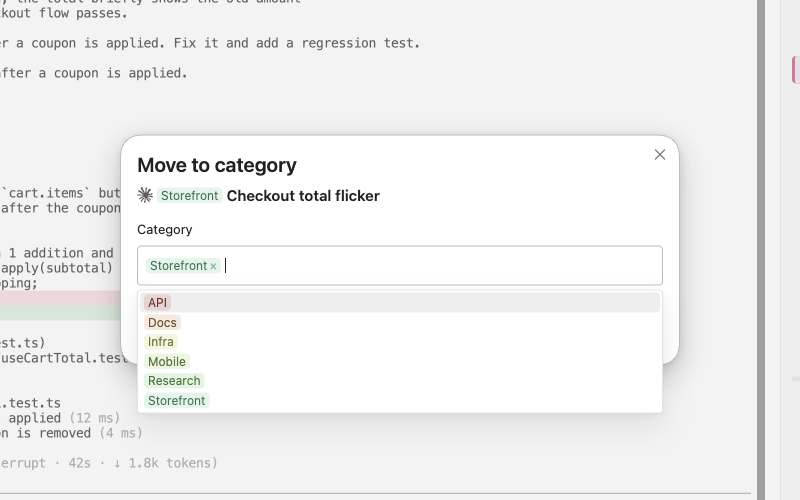
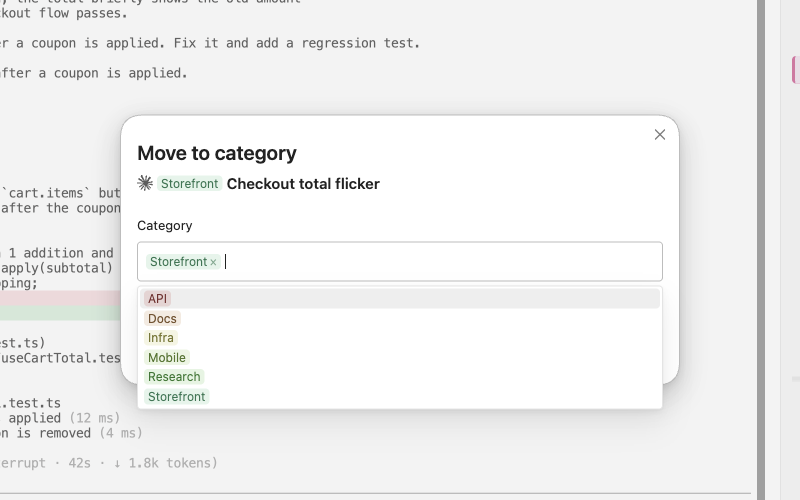
Give dialogs more vertical room
The dialog scale gains --size-4-6 (24 px): between the blocks of a
dialog, the title above the content, each side of the divider above the
button row, and the modal's padding above and below. Bordered and tinted
blocks (token efficiency rows, summary, disclosures, the opened issue,
Session analytics cards and charts, organize rows and progress) have a
16 px inset, a name and its description 4 px apart, a finding's lines
12 px apart, and the primary button and its estimate line more space.
Session analytics table rows are taller. R-S19 and design.md 16.2 list
the five steps; the README's token efficiency images and the welcome
guide's dialog scenes are shot again.

Claude-Session: https://claude.ai/code/session_01TTRFsyBXjNS4ZGqFbyUZrn

Changed region(s): [[0.125, 0.24, 0.8438, 0.84], [0.8125, 0.72, 0.875, 0.78]]

diff --git a/plugin/styles.css b/plugin/styles.css
@@ -2015,6 +2015,7 @@ input.agent-sessions-name-input-field[type="text"]:is(:hover, :active, :focus, :
 	width: 90vw;
 	max-width: 1100px;
 	height: 85vh;
+	padding-block: var(--size-4-6);
 }
 
 /* The title is drawn in the content's own header; Obsidian's empty one would add space above it. */
@@ -2037,7 +2038,7 @@ input.agent-sessions-name-input-field[type="text"]:is(:hover, :active, :focus, :
 	flex: none;
 	gap: var(--size-4-3);
 	/* The modal's own padding is the inset; the right side leaves room for its close button. */
-	padding: 0 var(--size-4-6) var(--size-4-4) 0;
+	padding: 0 var(--size-4-6) var(--size-4-6) 0;
 	border-bottom: 1px solid var(--background-modifier-border);
 }
 
@@ -2058,7 +2059,7 @@ input.agent-sessions-name-input-field[type="text"]:is(:hover, :active, :focus, :
 .agent-sessions-usage-body {
 	flex: 1 1 auto;
 	overflow-y: auto;
-	padding: var(--size-4-4) 0 0;
+	padding: var(--size-4-6) 0 0;
 }
 
 .agent-sessions-usage-loading,
@@ -2075,7 +2076,7 @@ input.agent-sessions-name-input-field[type="text"]:is(:hover, :active, :focus, :
 	display: flex;
 	align-items: center;
 	gap: var(--size-4-2);
-	margin-bottom: var(--size-4-3);
+	margin-bottom: var(--size-4-4);
 	color: var(--text-muted);
 	font-size: var(--font-ui-small);
 }
@@ -2093,11 +2094,11 @@ input.agent-sessions-name-input-field[type="text"]:is(:hover, :active, :focus, :
 	display: grid;
 	grid-template-columns: repeat(4, 1fr);
 	gap: var(--size-4-4);
-	margin-bottom: var(--size-4-4);
+	margin-bottom: var(--size-4-6);
 }
 
 .agent-sessions-usage-card {
-	padding: var(--size-4-3);
+	padding: var(--size-4-4);
 	border: 1px solid var(--background-modifier-border);
 	border-radius: var(--radius-m);
 	background: var(--background-secondary);
@@ -2110,7 +2111,7 @@ input.agent-sessions-name-input-field[type="text"]:is(:hover, :active, :focus, :
 }
 
 .agent-sessions-usage-card-label {
-	margin-top: var(--size-2-1);
+	margin-top: var(--size-4-1);
 	color: var(--text-muted);
 	font-size: var(--font-ui-smaller);
 	text-transform: uppercase;
@@ -2118,7 +2119,7 @@ input.agent-sessions-name-input-field[type="text"]:is(:hover, :active, :focus, :
 }
 
 .agent-sessions-usage-card-sub {
-	margin-top: var(--size-2-1);
+	margin-top: var(--size-4-1);
 	color: var(--text-faint);
 	font-size: var(--font-ui-smaller);
 }
@@ -2128,18 +2129,18 @@ input.agent-sessions-name-input-field[type="text"]:is(:hover, :active, :focus, :
 	grid-template-columns: 1fr 1fr 1.2fr;
 	align-items: start;
 	gap: var(--size-4-4);
-	margin-bottom: var(--size-4-4);
+	margin-bottom: var(--size-4-6);
 }
 
 .agent-sessions-usage-chart {
-	padding: var(--size-4-3);
+	padding: var(--size-4-4);
 	border: 1px solid var(--background-modifier-border);
 	border-radius: var(--radius-m);
 	background: var(--background-secondary);
 }
 
 .agent-sessions-usage-chart-title {
-	margin-bottom: var(--size-4-2);
+	margin-bottom: var(--size-4-3);
 	color: var(--text-muted);
 	font-size: var(--font-ui-smaller);
 	text-transform: uppercase;
@@ -2182,7 +2183,7 @@ input.agent-sessions-name-input-field[type="text"]:is(:hover, :active, :focus, :
 	display: flex;
 	flex-wrap: wrap;
 	gap: var(--size-4-2);
-	margin-top: var(--size-4-2);
+	margin-top: var(--size-4-3);
 	color: var(--text-muted);
 	font-size: var(--font-ui-smaller);
 }
@@ -2268,7 +2269,7 @@ input.agent-sessions-name-input-field[type="text"]:is(:hover, :active, :focus, :
 
 .agent-sessions-usage-table th,
 .agent-sessions-usage-table td {
-	padding: var(--size-4-1) var(--size-4-2);
+	padding: var(--size-4-2);
 	border-bottom: 1px solid var(--background-modifier-border);
 	text-align: left;
 }
@@ -2870,14 +2871,19 @@ input.agent-sessions-name-input-field[type="text"]:is(:hover, :active, :focus, :
 }
 /* ---- Dialogs (`markDialog` in `ui/dialog-header.ts`; docs/design.md §16.2) ----
    One scale, Obsidian's own variables: --size-4-1 (4px) between the lines of one item,
-   --size-4-2 (8px) between a label and its field and between items inside a block,
-   --size-4-3 (12px) the inset of a bordered or tinted block and the gap between its parts,
-   --size-4-4 (16px) between the blocks of a dialog and the modal's own padding.
-   The title sits --size-4-4 above the content, or --size-4-2 above the session line. The content
+   --size-4-2 (8px) between a label and its field and between small items side by side,
+   --size-4-3 (12px) between the lines of a list inside a block,
+   --size-4-4 (16px) the inset of a bordered or tinted block and the gap between its parts,
+   --size-4-6 (24px) between the blocks of a dialog and the modal's own padding above and below.
+   The title sits --size-4-6 above the content, or --size-4-2 above the session line. The content
    is one column of blocks; fields have no dividers between them; the button row that ends the
-   dialog has the one divider, --size-4-4 above and below it. */
+   dialog has the one divider, --size-4-6 above and below it. */
+.modal.agent-sessions-dialog {
+	padding-block: var(--size-4-6);
+}
+
 .modal.agent-sessions-dialog .modal-header {
-	margin-bottom: var(--size-4-4);
+	margin-bottom: var(--size-4-6);
 }
 
 .modal.agent-sessions-dialog .modal-header:has(+ .modal-content > .agent-sessions-dialog-target:first-child) {
@@ -2889,7 +2895,7 @@ input.agent-sessions-name-input-field[type="text"]:is(:hover, :active, :focus, :
 .modal.agent-sessions-dialog .agent-sessions-organize-actions {
 	display: flex;
 	flex-direction: column;
-	gap: var(--size-4-4);
+	gap: var(--size-4-6);
 }
 
 .modal.agent-sessions-dialog .modal-content > *,
@@ -2903,7 +2909,7 @@ input.agent-sessions-name-input-field[type="text"]:is(:hover, :active, :focus, :
 }
 
 .modal.agent-sessions-dialog .setting-item.agent-sessions-dialog-footer.agent-sessions-dialog-footer {
-	padding-top: var(--size-4-4);
+	padding-top: var(--size-4-6);
 	border-top: 1px solid var(--background-modifier-border);
 }
 
@@ -2995,7 +3001,7 @@ input.agent-sessions-name-input-field[type="text"]:is(:hover, :active, :focus, :
 /* Progress: a spinner with the ticking line, and a timestamped log of the steps. */
 .agent-sessions-organize-progress {
 	margin: 0;
-	padding: var(--size-4-3);
+	padding: var(--size-4-4);
 	border: 1px solid var(--background-modifier-border);
 	border-radius: var(--radius-s);
 	background-color: var(--background-secondary);
@@ -3060,7 +3066,7 @@ input.agent-sessions-name-input-field[type="text"]:is(:hover, :active, :focus, :
 	grid-template-areas: "current suggested check";
 	gap: var(--size-4-2) var(--size-4-4);
 	align-items: center;
-	padding: var(--size-4-3) var(--size-4-3) var(--size-4-3) var(--size-4-4);
+	padding: var(--size-4-4) var(--size-4-3) var(--size-4-4) var(--size-4-4);
 	border-bottom: 1px solid var(--background-modifier-border);
 	border-left: 3px solid var(--interactive-accent);
 	background: color-mix(in srgb, var(--interactive-accent) 8%, var(--background-primary));
@@ -3974,8 +3980,8 @@ input.agent-sessions-name-input-field[type="text"]:is(:hover, :active, :focus, :
 /* ---- Token efficiency dialog ---- */
 
 /* Every screen is a column of blocks on the dialogs' scale (see "Dialogs"): the heading, the nine
-   rows, the disclosures, then one action area, --size-4-4 apart. Rows, disclosures and the summary
-   are full-width blocks with the same inset (--size-4-3) and corners; a row with an issue opens in
+   rows, the disclosures, then one action area, --size-4-6 apart. Rows, disclosures and the summary
+   are full-width blocks with the same inset (--size-4-4) and corners; a row with an issue opens in
    place. The scrollbar's gutter is kept, so the width does not jump when the content grows. */
 .agent-sessions-efficiency {
 	width: min(720px, 92vw);
@@ -3990,7 +3996,7 @@ input.agent-sessions-name-input-field[type="text"]:is(:hover, :active, :focus, :
 .agent-sessions-efficiency-pane {
 	display: flex;
 	flex-direction: column;
-	gap: var(--size-4-4);
+	gap: var(--size-4-6);
 }
 
 .agent-sessions-efficiency-sub,
@@ -4041,7 +4047,7 @@ input.agent-sessions-name-input-field[type="text"]:is(:hover, :active, :focus, :
 	display: flex;
 	flex-wrap: wrap;
 	gap: var(--size-2-1);
-	margin-bottom: var(--size-4-4);
+	margin-bottom: var(--size-4-6);
 	border-bottom: 1px solid var(--background-modifier-border);
 }
 
@@ -4082,7 +4088,7 @@ input.agent-sessions-name-input-field[type="text"]:is(:hover, :active, :focus, :
 .agent-sessions-efficiency-summary {
 	display: flex;
 	flex-direction: column;
-	gap: var(--size-4-1);
+	gap: var(--size-4-2);
 }
 
 .agent-sessions-efficiency-h1 {
@@ -4093,7 +4099,7 @@ input.agent-sessions-name-input-field[type="text"]:is(:hover, :active, :focus, :
 }
 
 .agent-sessions-efficiency-summary {
-	padding: var(--size-4-3);
+	padding: var(--size-4-4);
 	border-radius: var(--radius-m);
 	background-color: hsla(var(--interactive-accent-hsl), 0.1);
 }
@@ -4121,7 +4127,7 @@ button.agent-sessions-efficiency-pt-row,
 	align-items: center;
 	gap: var(--size-4-3);
 	width: 100%;
-	padding: var(--size-4-2) var(--size-4-3);
+	padding: var(--size-4-4);
 	text-align: start;
 }
 
@@ -4153,6 +4159,7 @@ button.agent-sessions-efficiency-disc-head:focus-visible {
 	display: flex;
 	flex: 1;
 	flex-direction: column;
+	gap: var(--size-4-1);
 	min-width: 0;
 }
 
@@ -4265,8 +4272,8 @@ button.agent-sessions-efficiency-disc-head:focus-visible {
 .agent-sessions-efficiency-pt-body {
 	display: flex;
 	flex-direction: column;
-	gap: var(--size-4-3);
-	padding: var(--size-4-1) var(--size-4-3) var(--size-4-3);
+	gap: var(--size-4-4);
+	padding: 0 var(--size-4-4) var(--size-4-4);
 	font-size: var(--font-ui-small);
 }
 
@@ -4274,11 +4281,11 @@ button.agent-sessions-efficiency-disc-head:focus-visible {
 .agent-sessions-efficiency-finding {
 	display: flex;
 	flex-direction: column;
-	gap: var(--size-4-3);
+	gap: var(--size-4-4);
 }
 
 .agent-sessions-efficiency-finding + .agent-sessions-efficiency-finding {
-	padding-top: var(--size-4-3);
+	padding-top: var(--size-4-4);
 	border-top: 1px solid var(--background-modifier-border);
 }
 
@@ -4301,7 +4308,7 @@ button.agent-sessions-efficiency-disc-head:focus-visible {
 .agent-sessions-efficiency-kv {
 	display: grid;
 	grid-template-columns: auto minmax(0, 1fr);
-	gap: var(--size-4-2) var(--size-4-3);
+	gap: var(--size-4-3) var(--size-4-4);
 	margin: 0;
 }
 
@@ -4317,7 +4324,7 @@ button.agent-sessions-efficiency-disc-head:focus-visible {
 .agent-sessions-efficiency-quote {
 	display: flex;
 	flex-direction: column;
-	gap: var(--size-4-1);
+	gap: var(--size-4-2);
 	padding-left: var(--size-4-3);
 	border-left: 2px solid var(--background-modifier-border);
 }
@@ -4347,11 +4354,13 @@ button.agent-sessions-efficiency-disc-head:focus-visible {
 	display: flex;
 	flex-direction: column;
 	align-items: center;
-	gap: var(--size-4-2);
+	gap: var(--size-4-3);
+	padding-block: var(--size-4-2);
 }
 
 .agent-sessions-efficiency-go > button.mod-cta {
-	padding: var(--size-4-2) var(--size-4-8);
+	height: auto;
+	padding: var(--size-4-3) var(--size-4-8);
 	font-size: var(--font-ui-medium);
 }
 
@@ -4359,7 +4368,7 @@ button.agent-sessions-efficiency-disc-head:focus-visible {
 .agent-sessions-efficiency-prog {
 	display: flex;
 	flex-direction: column;
-	gap: var(--size-4-2);
+	gap: var(--size-4-3);
 }
 
 .agent-sessions-efficiency-progress {
@@ -4417,6 +4426,7 @@ button.agent-sessions-efficiency-disc-head:focus-visible {
 	display: flex;
 	flex: 1;
 	flex-direction: column;
+	gap: var(--size-4-1);
 	min-width: 0;
 }
 
@@ -4432,8 +4442,8 @@ button.agent-sessions-efficiency-disc-head:focus-visible {
 .agent-sessions-efficiency-disc-body {
 	display: flex;
 	flex-direction: column;
-	gap: var(--size-4-3);
-	padding: var(--size-4-3);
+	gap: var(--size-4-4);
+	padding: var(--size-4-4);
 	border-top: 1px solid var(--background-modifier-border);
 	background-color: var(--background-secondary);
 	font-size: var(--font-ui-small);
@@ -4454,14 +4464,15 @@ button.agent-sessions-efficiency-disc-head:focus-visible {
 .agent-sessions-efficiency-stats {
 	display: grid;
 	grid-template-columns: repeat(auto-fit, minmax(7.5em, 1fr));
-	gap: var(--size-4-2);
+	gap: var(--size-4-3);
 	font-variant-numeric: tabular-nums;
 }
 
 .agent-sessions-efficiency-stat {
 	display: flex;
 	flex-direction: column;
-	padding: var(--size-4-2) var(--size-4-3);
+	gap: var(--size-4-1);
+	padding: var(--size-4-3) var(--size-4-4);
 	border-radius: var(--radius-s);
 	background-color: var(--background-primary);
 }
@@ -4482,7 +4493,7 @@ button.agent-sessions-efficiency-disc-head:focus-visible {
 	align-items: center;
 	justify-content: space-between;
 	gap: var(--size-4-3);
-	padding-top: var(--size-4-4);
+	padding-top: var(--size-4-6);
 	border-top: 1px solid var(--background-modifier-border);
 }
 
@@ -4524,7 +4535,7 @@ button.agent-sessions-efficiency-disc-head:focus-visible {
 	button.agent-sessions-efficiency-pt-row {
 		flex-wrap: wrap;
 		justify-content: flex-start;
-		gap: var(--size-4-1) var(--size-4-2);
+		gap: var(--size-4-2);
 	}
 
 	.agent-sessions-efficiency-pt-text {

diff --git a/docs/design.md b/docs/design.md
@@ -910,11 +910,12 @@ Every dialog of the plugin is marked with `markDialog` (`ui/dialog-header.ts`, c
 | Space | Variable | Where |
 |---|---|---|
 | 4 px | `--size-4-1` | between the lines of one item (a name and its description, a value and its label) |
-| 8 px | `--size-4-2` | between a label and its field, between items inside a block, the title above a session line, a row's vertical inset |
-| 12 px | `--size-4-3` | the horizontal inset of every bordered or tinted block (rows, disclosures, summaries, panels) and the gap between the parts of an opened block |
-| 16 px | `--size-4-4` | between the blocks of a dialog, the title above the content, the modal's own padding |
+| 8 px | `--size-4-2` | between a label and its field, between small items side by side, the title above a session line |
+| 12 px | `--size-4-3` | between the lines of a list inside a block (a finding's "How to fix it", "What happened", "Cause"), a primary button and the line under it |
+| 16 px | `--size-4-4` | the inset of every bordered or tinted block (rows, disclosures, summaries, panels, cards), the gap between the parts of an opened block, the modal's own padding at the sides |
+| 24 px | `--size-4-6` | between the blocks of a dialog, the title above the content, each side of the divider above the button row, the modal's own padding above and below |
 
-The content (`.modal-content`, and each view of the organize dialog) is one column of blocks with a 16 px gap; the children's own margins are removed, so no gap is doubled. Fields (Obsidian `Setting` rows) have no dividers between them; a label beside its control is centred on it, and a label above its field (`agent-sessions-wide-setting`) sits 8 px above it. The button row that ends a dialog is made with `dialogFooter`: one divider above it, 16 px on each side. Corners of blocks are `--radius-m`. A dialog with its own header (Session analytics) uses the modal's padding as its inset and hides Obsidian's empty header, so no padding is added on top of the modal's. The token efficiency dialog keeps its scrollbar gutter (`scrollbar-gutter: stable`), every check row has a second line (the issues' titles, "Reading", or what the check looks for), so the rows are of one height, and below 480 px a row's state wraps under its text.
+The content (`.modal-content`, and each view of the organize dialog) is one column of blocks with a 24 px gap; the children's own margins are removed, so no gap is doubled. Fields (Obsidian `Setting` rows) have no dividers between them; a label beside its control is centred on it, and a label above its field (`agent-sessions-wide-setting`) sits 8 px above it. The button row that ends a dialog is made with `dialogFooter`: one divider above it, 24 px on each side. Corners of blocks are `--radius-m`. A dialog with its own header (Session analytics) uses the modal's padding as its inset and hides Obsidian's empty header, so no padding is added on top of the modal's. The token efficiency dialog keeps its scrollbar gutter (`scrollbar-gutter: stable`), every check row has a second line (the issues' titles, "Reading", or what the check looks for), so the rows are of one height, and below 480 px a row's state wraps under its text.
 
 ## 17. i18n
 

diff --git a/docs/requirements.md b/docs/requirements.md
@@ -104,7 +104,7 @@ Agent CLIs other than Claude Code, Codex, and OpenCode (agy, …) are a future d
   - R-S17.23 Claude Code, Codex and OpenCode conversations are analysed alike: Codex and OpenCode split their conversations by provider and the dialog analyses the provider each used most (one tab per agent); detectors whose signal an agent does not record (E04 for OpenCode) do not run for it.
   - R-S17.22 No statistic depends on the words a person wrote: the same conversation in another language gives the same tasks, hits and impact. Only record formats the agents write and the masking patterns are matched.
 - R-S18 A dialog opened from a menu item, a command or a button is titled with that item's label, word for word — the same message in every language, so the two cannot differ. A trailing ellipsis on a menu item ("Move to category…") is not part of the title. A per-session dialog shows the session on a second line under the title. Several items that open one dialog share one label (the side panel's and the manager's `⋯` menus and the command palette all say "Analyze token efficiency"). A confirmation raised by changing a control (a dropdown, a toggle) has no title, only its message. The welcome guide, which also opens by itself, is titled with its own name. A unit test (`plugin/test/ui/dialog-title.test.ts`) lists every such dialog and fails when a title is set from any other message.
-- R-S19 Every dialog spaces its content on one scale of Obsidian's spacing variables (4, 8, 12, 16 px; `design.md` §16.2): blocks 16 px apart, a label 8 px above its field, the title 8 px above the session line, the same inset inside every bordered or tinted block, one divider above the closing button row and none between fields, and no padding of the plugin's own added to the modal's. The token efficiency dialog keeps its width when its content starts to scroll, every check row has a second line (its issues' titles, "Reading", or what the check looks for) so the rows are of one height, and at about 400 px wide a row's state moves under its text instead of squeezing it.
+- R-S19 Every dialog spaces its content on one scale of Obsidian's spacing variables (4, 8, 12, 16, 24 px; `design.md` §16.2), with room to breathe vertically: 24 px above and below the content and between its blocks, 24 px on each side of the divider above the closing button row and none between fields, the title 8 px above the session line, a label 8 px above its field, 16 px inside every bordered or tinted block (rows, summaries, panels, cards) and between its parts, and no padding of the plugin's own added to the modal's. The token efficiency dialog keeps its width when its content starts to scroll, every check row has a second line (its issues' titles, "Reading", or what the check looks for) so the rows are of one height, and at about 400 px wide a row's state moves under its text instead of squeezing it.
 
 ### R-D Persistence and restore
 
